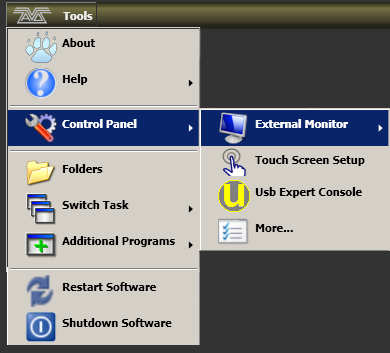
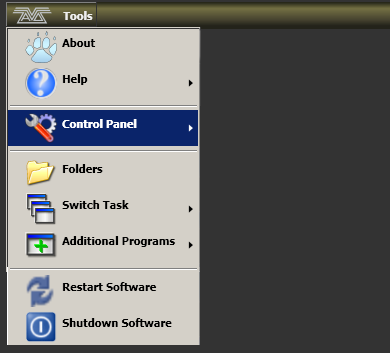
Add section on upgrading panel firmware

Changed region(s): [[0.4923, 0.2805, 1.0, 0.7167]]

diff --git a/docs/system-settings/upgrading-the-software.md b/docs/system-settings/upgrading-the-software.md
@@ -28,14 +28,45 @@ and install it on the console like this:
 
 1. Copy the installer file to a USB drive and insert into the console.
 
-2. In the screen **tools menu**, stop the console software using the
+2. In the screen **Tools menu**, stop the console software using the
 **Shutdown Software** button at the bottom of the list.
 ![Tools Menu](/docs/images/Tools-Menu.png)
 
-3. Open the **tools menu** again, touch the **Folders** icon and navigate to
+3. Open the **Tools menu** again, touch the **Folders** icon and navigate to
 the drive where the upgrade file is found.
 
 4. Run the installer by double clicking/double tapping.
 
 5. When the installation has completed, shut down the console and
 restart it. This will allow any operating system updates to install.
+
+## Upgrading panel firmware with USB Expert
+
+After upgrading the software it is sometimes necessary to upgrade the firmware in the various panels which make up the console control surfaces. You can do this using the Avolites USB Expert application which is installed on the console.
+
+> Sometimes the USB Expert application might be opened automatically after completion of a software upgrade, to prompt you to upgrade panel firmware.
+
+Use the following steps to upgrade panel firmware:
+
+1. In the screen **Tools menu**, click on **Control Panel** and select the **USB Expert Console** option.
+![Tools Menu](/docs/images/Tools-Menu-Control-Panel.png)
+
+2. You should see a list of the panels on the console in the left hand **Connected Panels** window (the list will vary depending on the console type).
+![USB Expert Panel Update](/docs/images/USB-Expert-Panel-Update.png)
+
+3. On the right hand side of the window select the **Service** tab and click on the **Enter Boot** button.
+
+4. After a short delay (maximum 2 minutes) all panels should be listed as being in "Boot Mode" showing a spanner icon in the left hand **Connected Panels** window.
+
+5. In the **Auto Update** box on the right hand side, any required firmware updates will be listed. The list may vary depending on the console type and the updates available - sometimes no updates might be found or needed.
+
+6. If updates are needed, click **Update Now** to start the process and the system will update the panels one by one.
+
+7. When the Auto Update box is empty, click on the **Exit Boot** button and the panels should reappear in the **Connected Panels** window.
+
+8. Close USB Expert, shut down the console using the power button, then restart it.
+
+9. As a final check, re-open USB Expert and check that all panels are shown with a green "Connected" logo in the **Connected Panels** window. You can test the function of all front panel controls using the **Item Events** window in the middle - pressing a button or moving a fader/encoder should show event messages in the window.
+
+
+- If the panel update has not completed after 10 minutes, press **Exit Boot** regardless and wait for the panels to reappear in the **Connected Panels** window. Then repeat from step 3 to check whether all panels have in fact been updated. 
